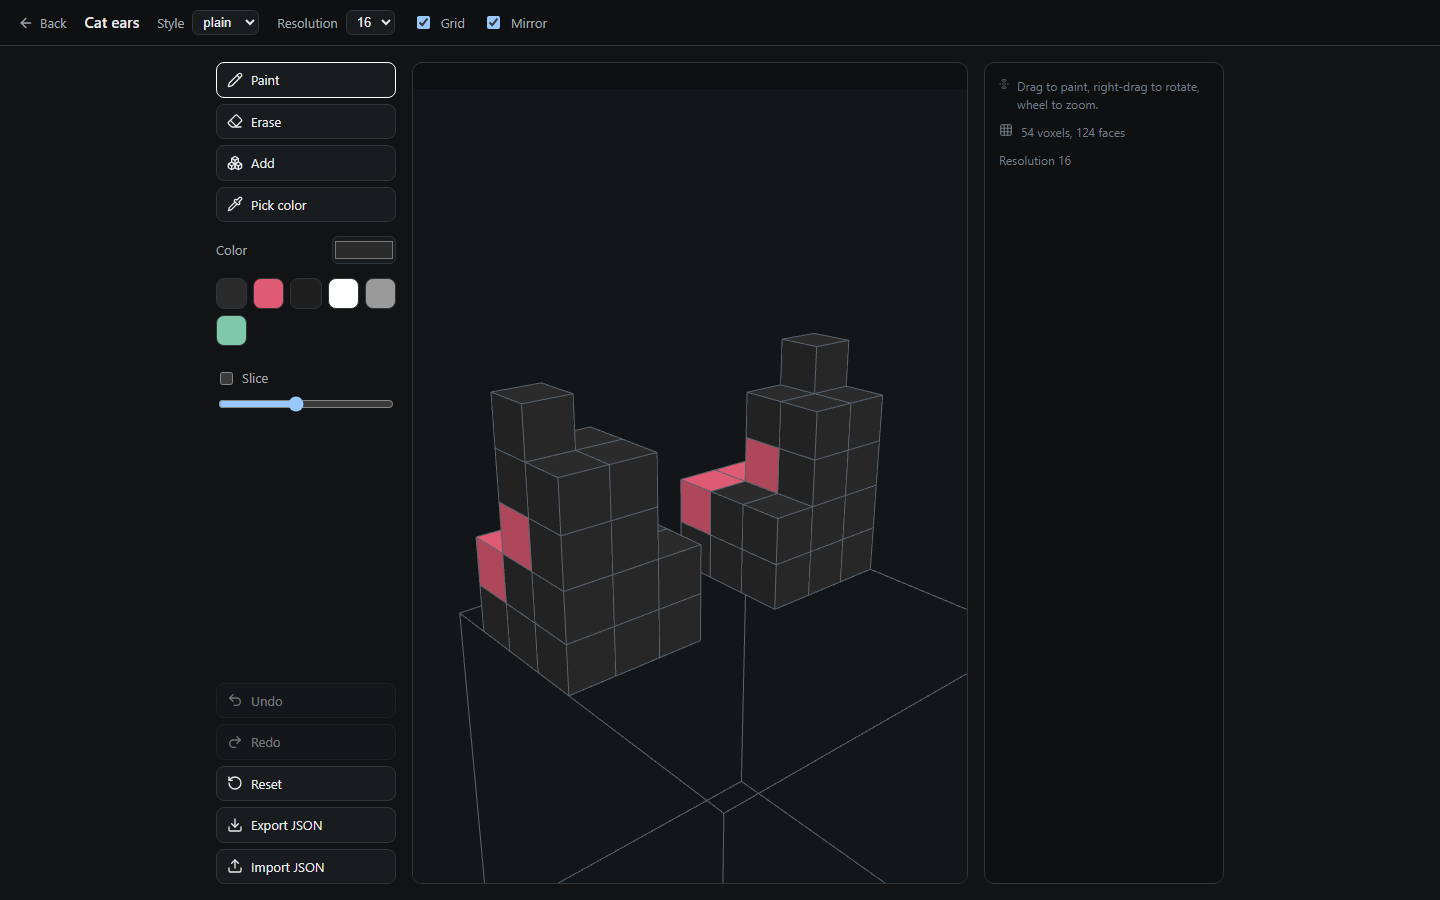
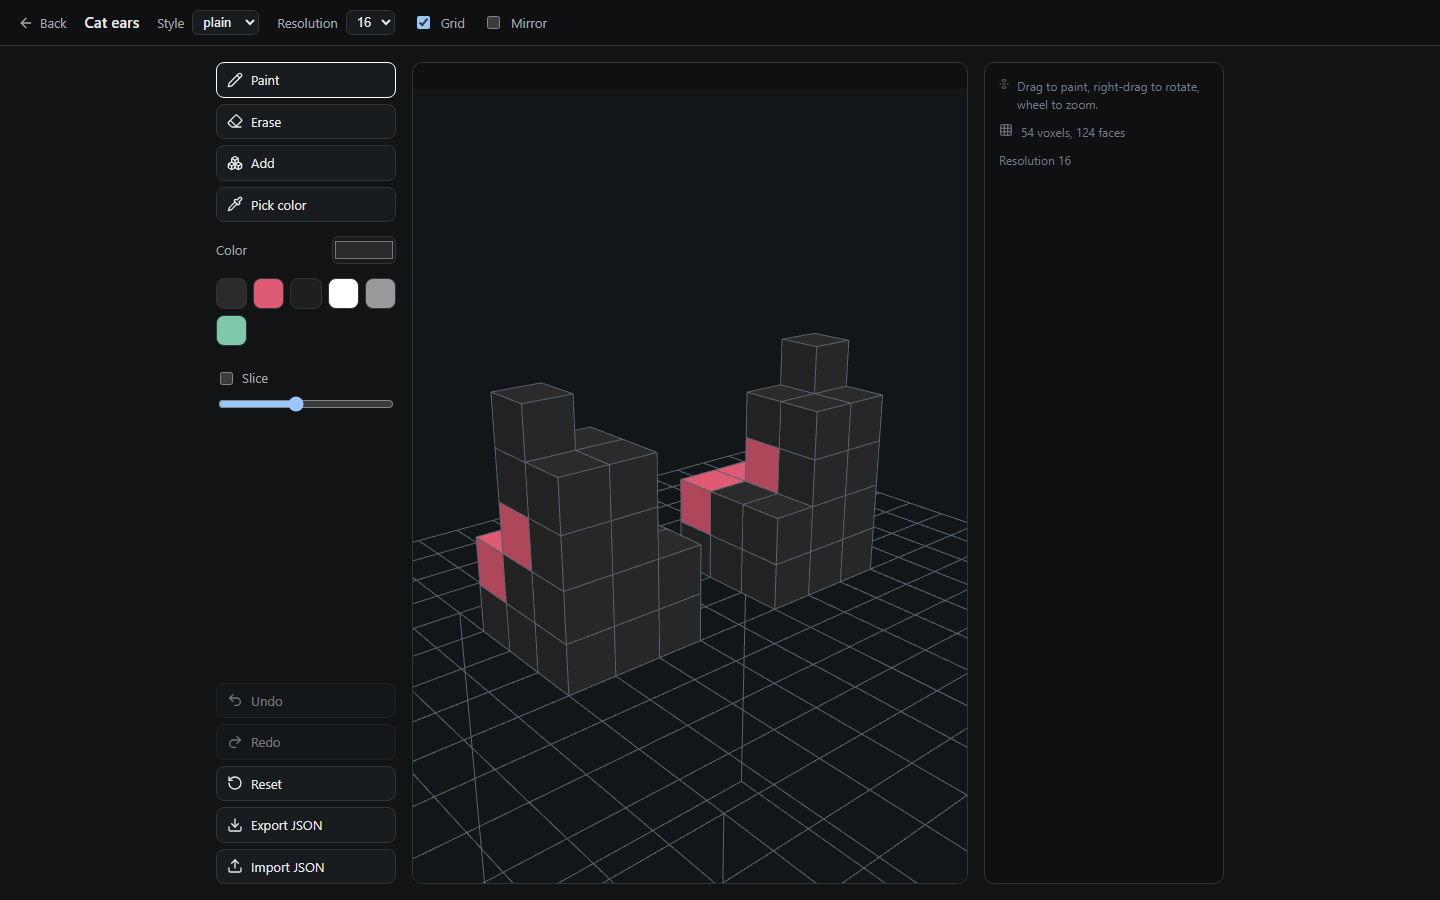
Add a virtual floor grid and widen the voxel editor zoom

diff --git a/web-ui/src/cosmetic/CosmeticApp.vue b/web-ui/src/cosmetic/CosmeticApp.vue
@@ -59,7 +59,7 @@ const palette = [
 const styleIndex = ref(0)
 const tool = ref<Tool>('paint')
 const color = ref(palette[0])
-const mirror = ref(true)
+const mirror = ref(false)
 const grid = ref(true)
 const sliceEnabled = ref(false)
 const slice = ref(-9)
@@ -114,13 +114,28 @@ function headLines(): number[] {
 
 const HEAD = new Float32Array(headLines())
 
+function floorLines(): Float32Array {
+  const resolution = model.value.resolution
+  const half = resolution / 2
+  const unit = 1 / resolution
+  const y = -0.5
+  const lines: number[] = []
+  for (let index = -half; index <= half; index++) {
+    lines.push(index * unit, y, -half * unit, index * unit, y, half * unit)
+    lines.push(-half * unit, y, index * unit, half * unit, y, index * unit)
+  }
+  return new Float32Array(lines)
+}
+
 function rebuild() {
   if (!viewport) return
   const current = model.value
   const mesh = current.mesh(sliceEnabled.value ? slice.value : null)
-  const lines = new Float32Array(mesh.lines.length + HEAD.length)
+  const floor = floorLines()
+  const lines = new Float32Array(mesh.lines.length + HEAD.length + floor.length)
   lines.set(mesh.lines)
   lines.set(HEAD, mesh.lines.length)
+  lines.set(floor, mesh.lines.length + HEAD.length)
   viewport.setMesh({ ...mesh, lines })
   faceCount.value = mesh.faces
   voxelCount.value = current.cells.size
@@ -193,10 +208,17 @@ function loadStyle(index: number) {
   viewport?.draw()
 }
 
+function floorCell() {
+  return -model.value.resolution / 2
+}
+
 function pick(event: PointerEvent) {
   if (!viewport) return null
   const ray = viewport.ray(event.clientX, event.clientY)
-  return { ray, hit: model.value.pick(ray.origin, ray.direction) }
+  return {
+    ray,
+    hit: model.value.pick(ray.origin, ray.direction, floorCell()),
+  }
 }
 
 function paintCell(x: number, y: number, z: number, index: number) {
@@ -211,6 +233,11 @@ function eraseCell(x: number, y: number, z: number) {
 
 function applyTool(hit: Hit) {
   const current = model.value
+  if (hit.placeholder) {
+    if (tool.value === 'erase' || tool.value === 'pick') return
+    paintCell(hit.x, hit.y, hit.z, current.indexOf(color.value))
+    return
+  }
   if (tool.value === 'pick') {
     const index = current.colorIndex(hit.x, hit.y, hit.z)
     if (index !== undefined) color.value = current.palette[index]

diff --git a/web-ui/src/cosmetic/voxel.ts b/web-ui/src/cosmetic/voxel.ts
@@ -34,6 +34,7 @@ export interface Hit {
   nx: number
   ny: number
   nz: number
+  placeholder: boolean
 }
 
 export interface Mesh {
@@ -263,7 +264,33 @@ export class VoxelModel {
     }
   }
 
-  pick(origin: number[], direction: number[]): Hit | null {
+  pick(
+    origin: number[],
+    direction: number[],
+    floorCell: number | null,
+  ): Hit | null {
+    const hit = this.pickCell(origin, direction)
+    if (hit || floorCell === null) return hit
+    if (Math.abs(direction[1]) < 1e-6) return null
+    const plane = floorCell / this.resolution
+    const distance = (plane - origin[1]) / direction[1]
+    if (distance <= 0) return null
+    const x = (origin[0] + direction[0] * distance) * this.resolution
+    const z = (origin[2] + direction[2] * distance) * this.resolution
+    const half = this.resolution / 2
+    if (x < -half || x >= half || z < -half || z >= half) return null
+    return {
+      x: Math.floor(x),
+      y: floorCell - 1,
+      z: Math.floor(z),
+      nx: 0,
+      ny: -1,
+      nz: 0,
+      placeholder: true,
+    }
+  }
+
+  private pickCell(origin: number[], direction: number[]): Hit | null {
     const resolution = this.resolution
     const bounds = this.bounds()
     const originX = origin[0] * resolution
@@ -318,7 +345,7 @@ export class VoxelModel {
     let ny = 0
     let nz = 0
     for (let step = 0; step < 4096; step++) {
-      if (this.has(x, y, z)) return { x, y, z, nx, ny, nz }
+      if (this.has(x, y, z)) return { x, y, z, nx, ny, nz, placeholder: false }
       if (maxX < maxY && maxX < maxZ) {
         x += stepX
         distance = maxX

diff --git a/web-ui/src/cosmetic/viewport.ts b/web-ui/src/cosmetic/viewport.ts
@@ -213,7 +213,7 @@ export class Viewport {
   }
 
   zoom(factor: number) {
-    this.distance = Math.max(4, Math.min(400, this.distance * factor))
+    this.distance = Math.max(0.2, Math.min(400, this.distance * factor))
   }
 
   private basis() {
@@ -239,7 +239,7 @@ export class Viewport {
     gl.useProgram(this.program)
     const { eye } = this.basis()
     const view = lookAt(eye, this.center, [0, -1, 0])
-    const projection = perspective(FIELD_OF_VIEW, width / height, 0.1, 2000)
+    const projection = perspective(FIELD_OF_VIEW, width / height, 0.01, 2000)
     const mvp = multiply(projection, view)
     gl.uniformMatrix4fv(this.mvpLocation, false, mvp)
     gl.enableVertexAttribArray(this.positionLocation)
